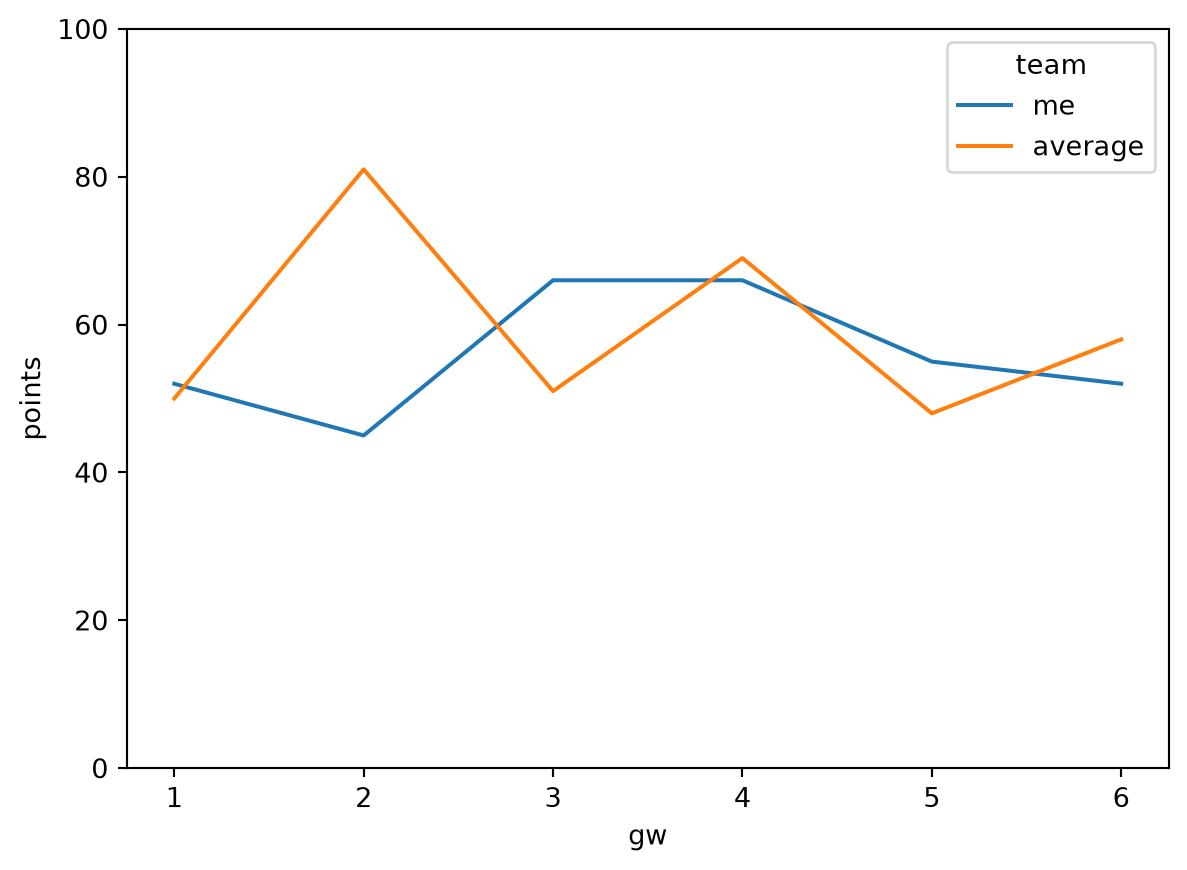
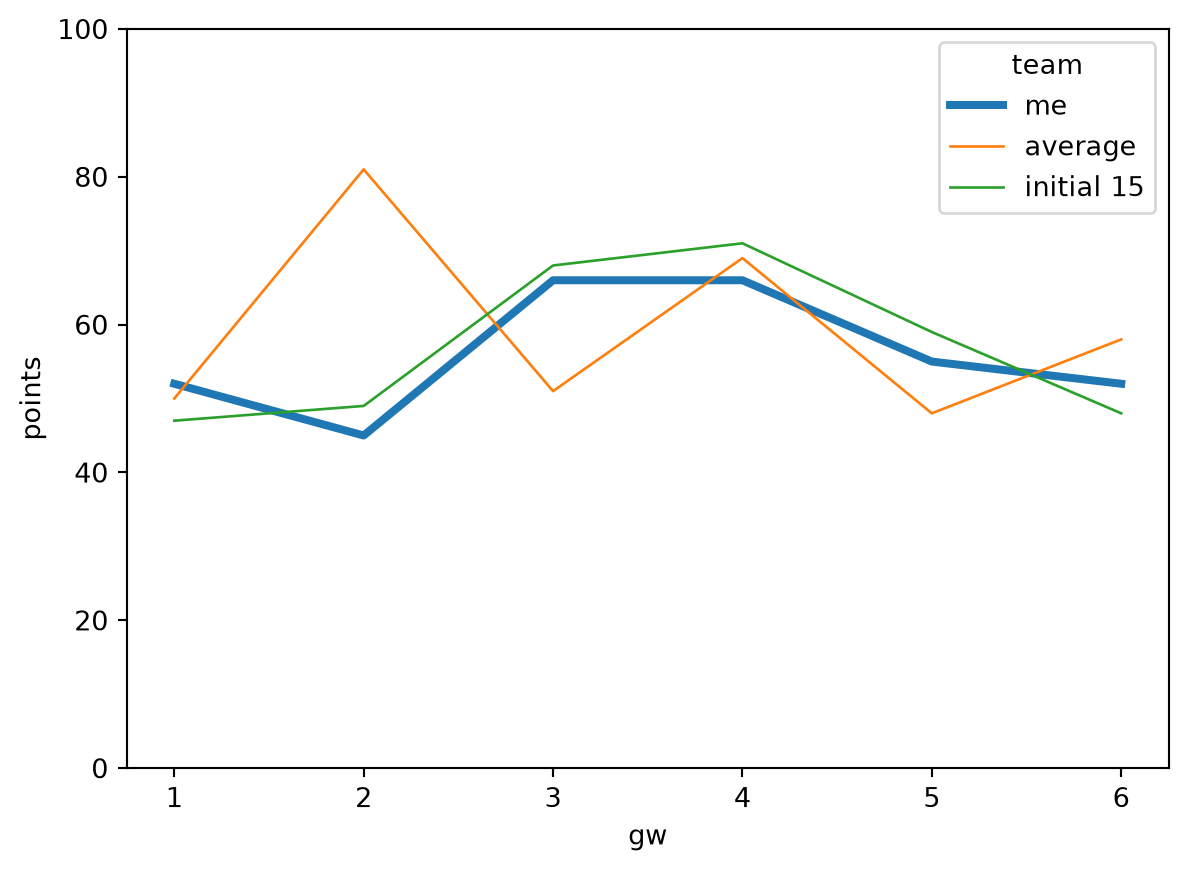
Feature/054 initial squad tracking (#55)
* remove unneeded code from gw11 template

* add initial 15 squad line to points tracker

* add toggle for marginal vs cumulative for points tracker graph

diff --git a/src/fpl/player_data.py b/src/fpl/player_data.py
@@ -108,70 +108,51 @@ def last_1_years_points():
 'points_2yr',
 'points_per_cost_2yr']])
 
-#print(last_2_yrs_points(53))
 
-#i = 0
-#for pid in pids:
-#    i+=1
-#    print(str(i) + " pid: " + str(pid) + " " + str(last_2_yrs_points(pid)))
+def points(pid):
+      with open(here("data/element_summary/element_summary_"+str(pid)+".json")) as f:
+                      data = json.load(f)
+
+                      df = pd.json_normalize(data['history'])[
+                           ['element', 'total_points', 'round']
+                            ].rename(
+                                columns={'round':'GW'}
+                            )
+
+      return(df)
+
+def initial_squad_tracker():
+
+     df = players()
+
+     initial_squad = ['Verbruggen', 'Leno',
+                      'Mitchell', 'Guéhi', 'Van Hecke', 'Tarkowski', 'N.Williams',
+                      'Szoboszlai', 'Rice', 'Anderson', 'Iwobi', 'Damsgaard',
+                      'Calvert-Lewin', 'Mateta', 'Welbeck'
+                      ]
+
+     initial_squad_pids = ['109', '250',
+                           '204', '388', '112', '229', '469',
+                           '368', '13', '481', '261', '96',
+                           '346', '223', '136'
+                           ]
+
+     df = {pid:points(pid) for pid in initial_squad_pids}
+     df = pd.concat(df.values(), ignore_index=True).merge(
+          players()[['PID', 'second_name']],
+          left_on = 'element',
+          right_on = 'PID'
+     )
+
+     tracker = df.groupby("GW", as_index=False)['total_points'].sum()
+
+     # pro-rate
+     tracker['pro_rata_points'] = tracker['total_points']*(12/15)
+
+     return(tracker)
 
 
-'''
-df.sort_values(
-    ['position_name', 'points_per_cost_2yr'], ascending=[True, False])[
-        ['first_name', 'second_name', 'team_name', 'position_name', 'now_cost', 'total_points', 'points_per_cost',
-         'points_2yr',
-         'points_per_cost_2yr']
-    ].to_csv(
-        "output/underpriced.csv")
-        
-     
-df['points_per_cost'] = df['total_points']/df['now_cost']
-
-
-#df['points_per_cost'].hist(bins=100)
-#plt.ylabel('Frequency')
-#plt.title('Histogram of col')
-#plt.show()
-
-(df[df['points_per_cost']>2]).sort_values(
-    ['position_name', 'points_per_cost'], ascending=[True, False])[
-        ['first_name', 'second_name', 'team_name', 'position_name', 'now_cost', 'total_points', 'points_per_cost']
-    ].to_csv(
-        "output/1yr_underpriced.csv")
-
-def load_element_summary(pid):
-    with open('data/element_summary/element_summary_'+str(pid)+'.json') as f:
-        r = json.load(f)
-    return(r)
-
-
-def last_2_yrs_points(pid):
-    pl = pd.json_normalize(load_element_summary(pid)['history_past'])
-    if 'season_name' in pl.columns:
-        recent_pl = pl[pl['season_name'] >= '2024/25']
-        last_2_year_points = recent_pl['total_points'].sum()
-        return(last_2_year_points)
-    else:
-        return(0)
-
-#print(last_2_yrs_points(53))
-
-#i = 0
-#for pid in pids:
-#    i+=1
-#    print(str(i) + " pid: " + str(pid) + " " + str(last_2_yrs_points(pid)))
-
-df['points_2yr'] = df['PID'].apply(last_2_yrs_points)
-df['points_per_cost_2yr'] = df['points_2yr'] / df['now_cost']
-
-df.sort_values(
-    ['position_name', 'points_per_cost_2yr'], ascending=[True, False])[
-        ['first_name', 'second_name', 'team_name', 'position_name', 'now_cost', 'total_points', 'points_per_cost',
-         'points_2yr',
-         'points_per_cost_2yr']
-    ].to_csv(
-        "output/underpriced.csv")
-        
-
-'''
+if __name__ == '__main__':
+     print("running...")
+     print(initial_squad_tracker())
+     print("complete")

diff --git a/src/fpl/points_tracker.py b/src/fpl/points_tracker.py
@@ -2,18 +2,42 @@ import pandas as pd
 from pyprojroot import here
 import seaborn as sns
 import matplotlib.pyplot as plt
+from fpl.player_data import initial_squad_tracker
 
-def points_tracker(gw):
-    points = pd.read_csv(here('data/points_tracker.csv'))
+def points_tracker(gw, cumulative=False):
+    points = pd.read_csv(here('data/points_tracker.csv')).merge(
+        initial_squad_tracker()[['GW', 'total_points']],
+        left_on = "gw",
+        right_on = "GW"
+    ).rename(
+        columns = {'total_points':'initial 15'}
+    )
+
+    if cumulative == True:
+        points['me'] = points['me'].cumsum()
+        points['average'] = points['average'].cumsum()
+        points['initial 15'] = points['initial 15'].cumsum()
+
     points = points[points['gw']<=gw].melt(
-        id_vars = 'gw',
+        id_vars = ['gw', 'GW'],
         var_name= 'team',
         value_name= 'points'
     )
 
-    ax = sns.lineplot(data=points, x='gw', y='points', hue = 'team')
-    ax.set_ylim(0, 100)
+    sizes = {"me": 3,
+             "average": 1,
+             "initial 15":1}
+
+    ax = sns.lineplot(data=points, x='gw', y='points', hue = 'team', size='team',
+                      sizes = sizes)
+    
+    if cumulative == False:
+        ax.set_ylim(0, 100)
+    else:
+        ax.set_ylim(0, 75*gw)
+
     plt.show()
+    
 
 if __name__ == '__main__':
-    points_tracker(8)
+    print(points_tracker(10))
